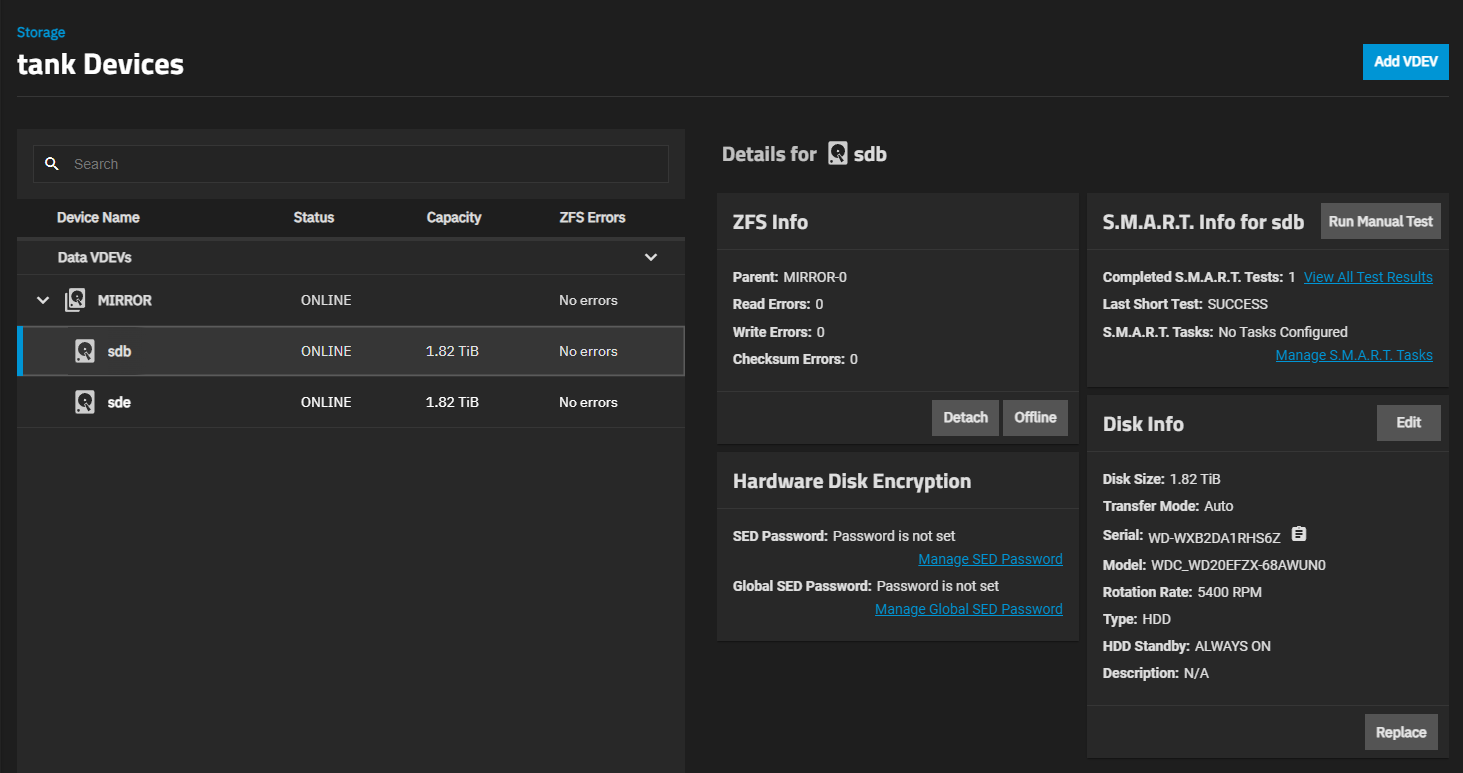
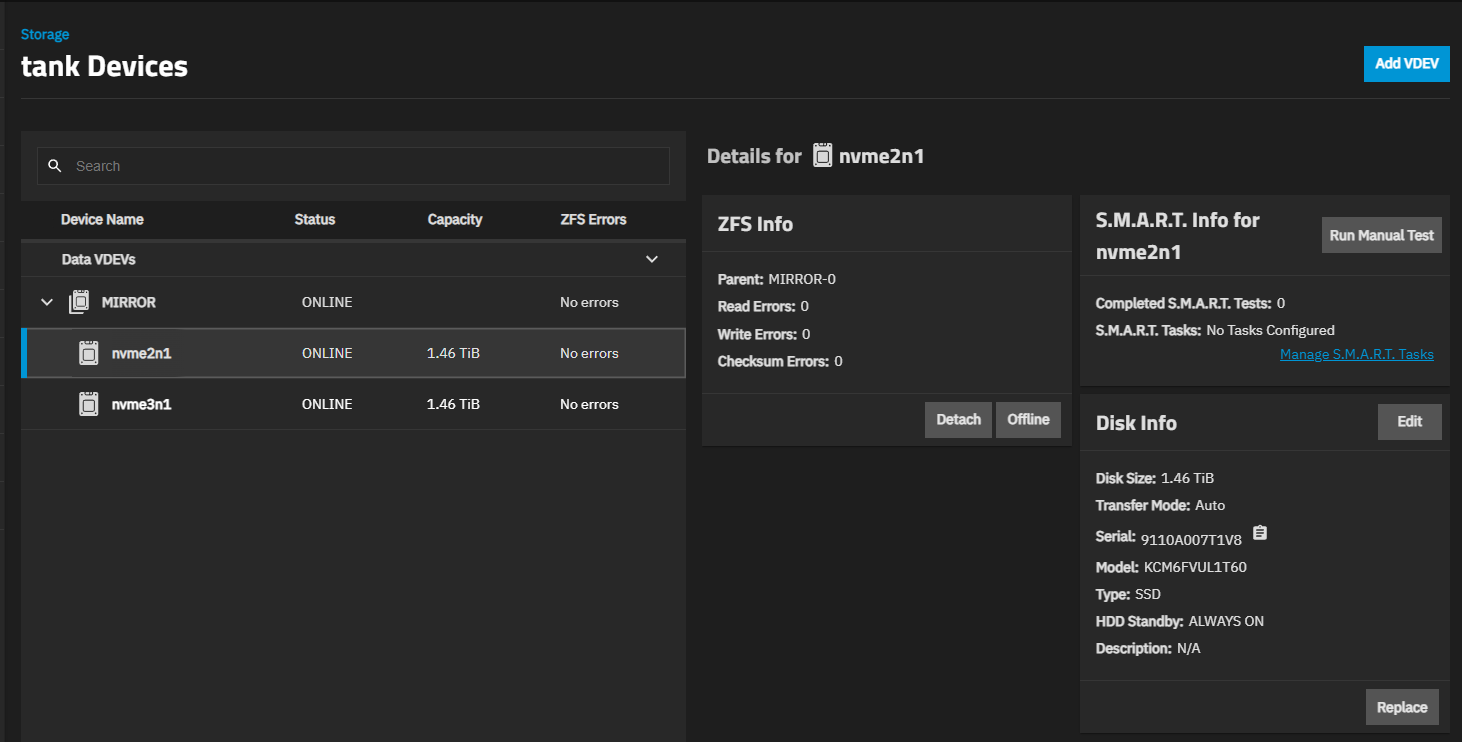
PD-1923 Update  Devices Screen article
This commit updates the screenshot of disk widgets, and makes some style guide changes to the content.

diff --git a/content/SCALE/SCALEUIReference/Storage/DevicesScreensSCALE.md b/content/SCALE/SCALEUIReference/Storage/DevicesScreensSCALE.md
@@ -13,11 +13,11 @@ tags:
 ---
 
 The **Devices** screen lists VDEVS and disks configured for the selected pool.
-Go to **Storage** and click on **Manage Devices** on the **Topology** widget  to view the **Devices** screen.
+Go to **Storage** and click on **Manage Devices** on the **Topology** widget to view the **Devices** screen.
 
 {{< trueimage src="/images/SCALE/Storage/DevicesScreenDataVdevsUnexpanded.png" alt="Devices Data VDEV Unexpanded" id="Devices Data VDEV Unexpanded" >}}
 
-Click anywhere on the VDEV to see the drives included in it, and the **ZFS Info** widget for that VDEV.
+Click anywhere on the VDEV to see the drives in it and the **ZFS Info** widget for that VDEV.
 
 {{< trueimage src="/images/SCALE/Storage/DevicesMirrorVDEVSelected.png" alt="Devices Mirror VDEV Expanded" id="Devices Mirror VDEV Expanded" >}}
 
@@ -28,7 +28,7 @@ For example, find the **Topology** widget for a pool and click **Manage Devices*
 This opens the **Pool Creation Wizard** with *tank* prepopulated but not editable.
 
 ## ZFS Info Widget (VDEV)
-The **ZFS Info** widget for the VDEV shows a count of read, write, and checksum errors for that VDEV, and the **Extend** and **Remove** options.
+The **ZFS Info** widget for the VDEV shows a count of read, write, and checksum errors for that VDEV and the **Extend** and **Remove** options.
 
 {{< trueimage src="/images/SCALE/Storage/DevicesVDEVZFSInfoWidget.png" alt="Devices Details for Mirror ZFS Info Widget" id="Devices Details for Mirror ZFS Info Widget" >}}
 
@@ -39,7 +39,6 @@ The **ZFS Info** widget for the VDEV shows a count of read, write, and checksum 
 **Remove** opens the **Remove device** dialog where you confirm you want to remove the selected VDEV.
 To remove a drive from the VDEV, select the drive then select **Detach** on the **[ZFS Info](#zfs-info-widget-drives)** widget to remove the drive from the VDEV (pool).
 
-
 ## Disk Widgets
 Each disk in a VDEV has a set of four widgets that show information for that disk.
 After selecting a disk, the widgets display on the right side of the screen in the **Details for *diskname*** area of the screen.
@@ -49,23 +48,26 @@ After selecting a disk, the widgets display on the right side of the screen in t
 ### ZFS Info Widget (Drives)
 The **ZFS Info** widget for each device (disk drive) in the VDEV shows the name of the VDEV (**Parent**) the read, write, and checksum errors for that drive, and the **Detach** and **Offline** options.
 
-
 {{< trueimage src="/images/SCALE/Storage/DevicesDiskZFSInfoWidget.png" alt="Devices Disk ZFS Info Widget" id="Devices Disk ZFS Info Widget" >}}
 
 **Detach** opens a confirmation dialog and removes the selected drive from the parent VDEV.
 
 {{< trueimage src="/images/SCALE/Storage/DeviceDiskDetachDialog.png" alt="Devices Disk Detach Dialog" id="Devices Disk Detach Dialog" >}}
 
-**Offline** opens a confirmation dialog and takes the selected drive to an offline state so you can take the selected disk offline before replacing it. 
+**Offline** opens a confirmation dialog and takes the selected drive to an offline state before taking a disk offline to replace it. 
 Toggles to **Online** so you can bring a replacement disk online.
 After taking a drive offline you can remove or replace the physical drive.
 
 {{< trueimage src="/images/SCALE/Storage/DeviceDiskOfflineDialog.png" alt="Devices Disk Offline Dialog" id="Devices Disk Offline Dialog" >}}
 
 ### Hardware Disk Encryption Widget
-The **Hardware Disk Encryption** widget shows information on the drive SED password status (set, not set).
+{{< enterprise >}}
+The **Hardware Disk Encryptio**n widget only shows on Enterprise-licensed systems.
+{{< /enterprise >}}
 
-The **Manage SED Password** link opens a **Manage SED Password** dialog where you enter an SED password for the drive to set the disk encryption password.
+The **Hardware Disk Encryption** widget shows drive information such as the SED password set or not set.
+
+The **Manage SED Password** link opens a **Manage SED Password** dialog, where you can enter a disk SED password to set the disk encryption password.
 
 {{< trueimage src="/images/SCALE/Storage/DevicesDiskHardwareDiskEncryptionWidget.png" alt="Devices Disk Hardware Disk Encryption Widget" id="Devices Disk Hardware Disk Encryption Widget" >}}
 
@@ -75,8 +77,9 @@ The **Manage SED Password** link opens a **Manage SED Password** dialog where yo
 The **Manage Global SED Password** link opens the **[System Settings > Advanced]({{< relref "AdvancedSettingsScreen.md" >}})** screen where you can change the global SED password that overrides the disk passwords.
 
 ### S.M.A.R.T. Info for&nbsp;*Devicename*&nbsp;Widget
-The **S.M.A.R.T. Info for *devicename*** widget, where *devicename* is the name of the disk, provides the number of **Completed S.M.A.R.T. Tests** and the number of **S.M.A.R.T. Tests** configured on the system.
-The widget shows the status for the last short test performed.
+
+The **S.M.A.R.T. Info for *devicename*** widget, where *devicename* is the name of the disk. It provides the number of **Completed S.M.A.R.T. Tests** and the number of **S.M.A.R.T. Tests** configured on the system.
+The widget shows the status of the last short test performed.
 
 {{< trueimage src="/images/SCALE/Storage/DeviceDiskSMARTInfoWidget.png" alt="Devices Disk S.M.A.R.T. Info Widget" id="Devices Disk S.M.A.R.T. Info Widget" >}}
 
@@ -91,7 +94,8 @@ The **Manage SMART Tasks** link opens the **[Data Protection > SMART Tests]({{< 
 The **Type** dropdown list includes the **LONG**, **SHORT**, **CONVEYANCE**, and **OFFLINE** options, and the **Cancel** and **Start** buttons.
 
 ### Disk Info Widget
-The **Disk Info** widget shows the **Disk Size**, **Transfer Mode**, the **Serial** and **Model** numbers for the drive, the **Type** of drive it is, the **HDD Standby** setting, and any **Description** associated with the selected drive.
+
+The **Disk Info** widget shows the disk size, transfer mode, the serial and model numbers for the drive, type of drive, HDD standby setting, and a description associated with the selected drive.
 
 {{< trueimage src="/images/SCALE/Storage/DeviceDiskInfoWidget.png" alt="Devices Disk Info Widget" id="Devices Disk Info Widget" >}}
 
@@ -99,12 +103,12 @@ The **Disk Info** widget shows the **Disk Size**, **Transfer Mode**, the **Seria
 
 {{< trueimage src="/images/SCALE/Storage/ReplacingDiskDialog.png" alt="Replacing Disk Dialog" id="Replacing Disk Dialog" >}}
 
-Select the new disk for the pool from the **Member Disk** dropdown list.
-The system prevents losing existing data by stopping the add operation for the new disk if the disk is already in use or has partitions present.
+**Member Disk** lists selectable disks to add a new disk to the pool.
+The system prevents losing existing data by stopping an add operation for the new disk if it is already in use or has partitions present.
 
 **Force** overrides the safety check and adds the disk to the pool. Selecting this option erases any data stored on the disk!
 
 **Preserve Power Management and S.M.A.R.T. settings** transfers all power management and S.M.A.R.T. test configurations from the original disk to your replacement disk. Selected by default. Disable to reset your configuration. 
 
-**Preserve disk description** maintains any descriptions associated with the original disk. Selected by default. Disable to change the replacement disk descriptors attached to the original disk.
+**Preserve disk description** maintains any descriptions associated with the original disk. Selected by default. Disable it before changing the replacement disk descriptors attached to the original disk.
 **Replace Disk** adds the new disk to the pool.
